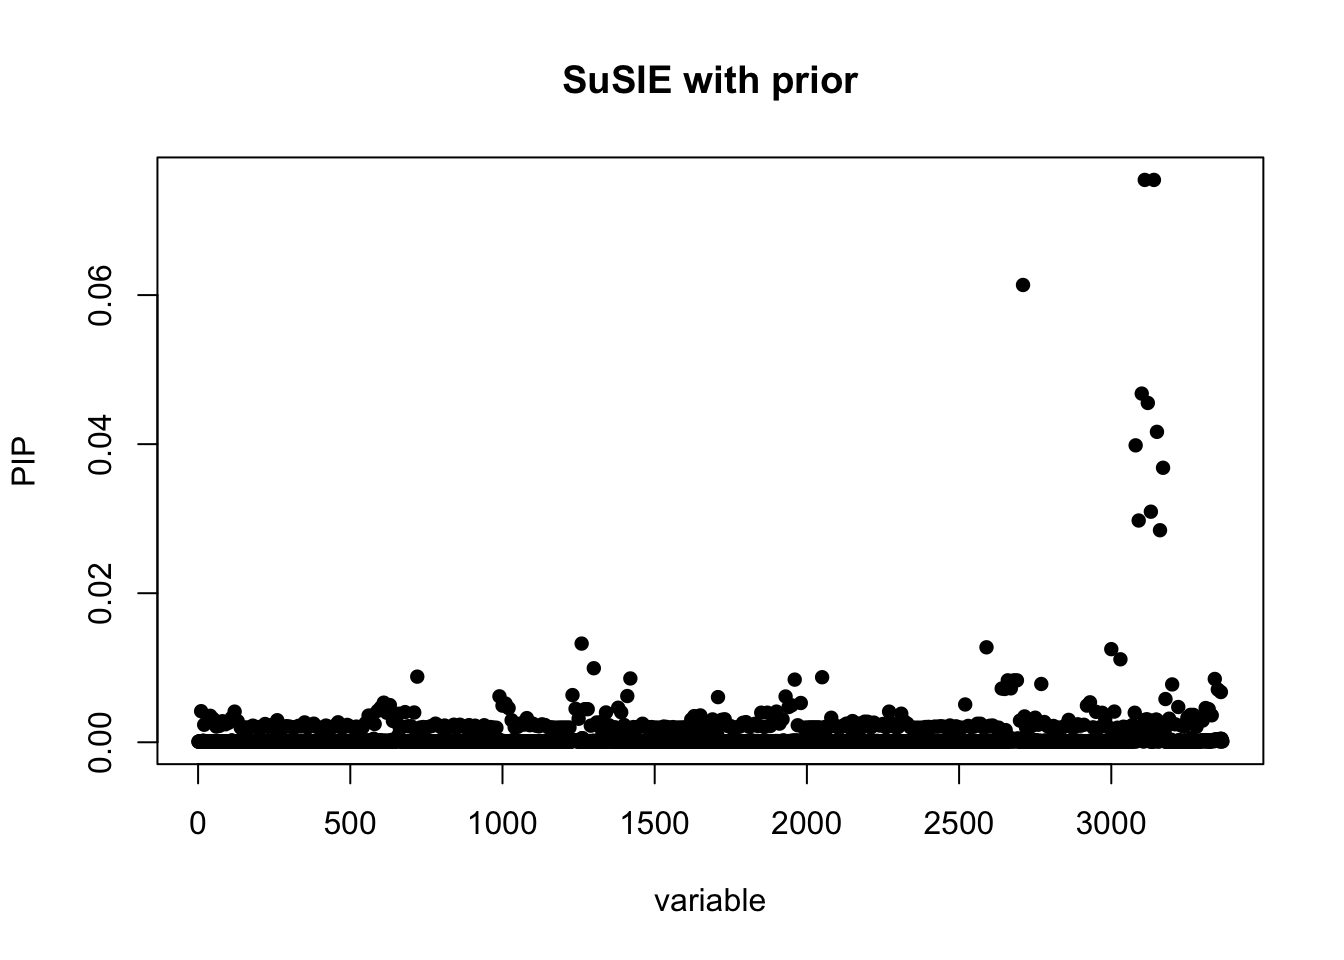
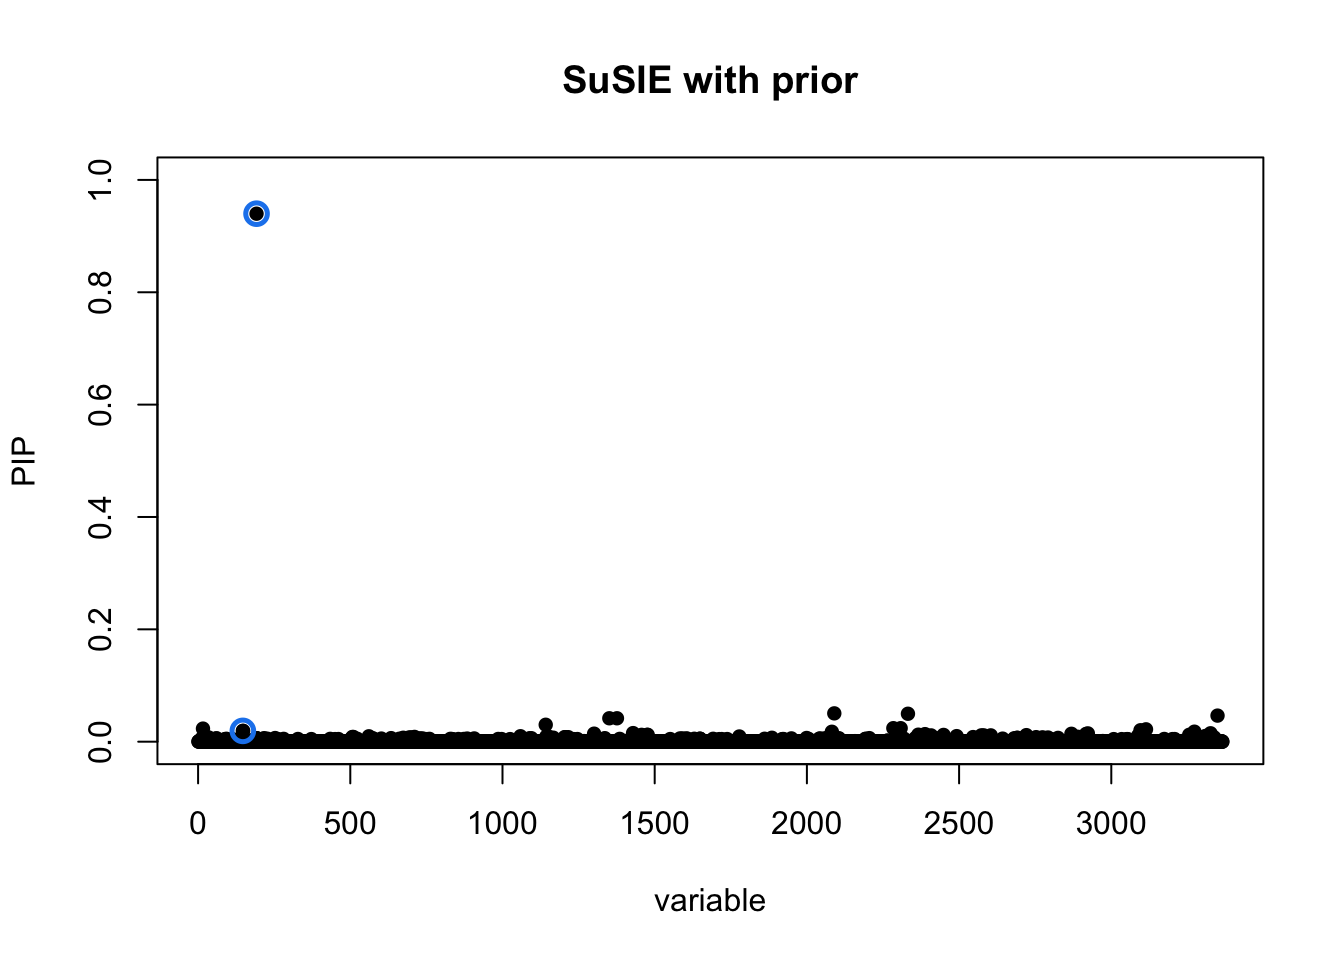
Build site.

diff --git a/docs/informative_prior.html b/docs/informative_prior.html
@@ -381,7 +381,7 @@ class="glyphicon glyphicon-ok text-success" aria-hidden="true"></span>
 <div class="tab-content">
 <div id="summary" class="tab-pane fade in active">
 <p>
-<strong>Last updated:</strong> 2025-03-07
+<strong>Last updated:</strong> 2025-03-16
 </p>
 <p>
 <strong>Checks:</strong> <span
@@ -512,15 +512,15 @@ project makes it easier to run your code on other machines.</p>
 <div class="panel panel-default">
 <div class="panel-heading">
 <p class="panel-title">
-<a data-toggle="collapse" data-parent="#workflowr-checks" href="#strongRepositoryversionstrongahrefhttpsgithubcomLifanLiangeQTLmethodstree1920d42527a05fc47aaeda052aee02a429e410batargetblank1920d42a">
+<a data-toggle="collapse" data-parent="#workflowr-checks" href="#strongRepositoryversionstrongahrefhttpsgithubcomLifanLiangeQTLmethodstree51c9bda2d9bcaa9ca4d98127b541adbfc31279d6targetblank51c9bdaa">
 <span class="glyphicon glyphicon-ok text-success"
 aria-hidden="true"></span> <strong>Repository version:</strong>
-<a href="https://github.com/LifanLiang/eQTL_methods/tree/1920d42527a05fc47aaeda052aee02a429e410ba" target="_blank">1920d42</a>
+<a href="https://github.com/LifanLiang/eQTL_methods/tree/51c9bda2d9bcaa9ca4d98127b541adbfc31279d6" target="_blank">51c9bda</a>
 </a>
 </p>
 </div>
 <div
[2 lines of base64/hex data omitted]
 class="panel-collapse collapse">
 <div class="panel-body">
 <p>
@@ -530,7 +530,7 @@ reproducibility.
 </p>
 <p>
 The results in this page were generated with repository version
-<a href="https://github.com/LifanLiang/eQTL_methods/tree/1920d42527a05fc47aaeda052aee02a429e410ba" target="_blank">1920d42</a>.
+<a href="https://github.com/LifanLiang/eQTL_methods/tree/51c9bda2d9bcaa9ca4d98127b541adbfc31279d6" target="_blank">51c9bda</a>.
 See the <em>Past versions</em> tab to see a history of the changes made
 to the R Markdown and HTML files.
 </p>
@@ -615,13 +615,47 @@ Message
 Rmd
 </td>
 <td>
+<a href="https://github.com/LifanLiang/eQTL_methods/blob/51c9bda2d9bcaa9ca4d98127b541adbfc31279d6/analysis/informative_prior.Rmd" target="_blank">51c9bda</a>
+</td>
+<td>
+Lifan Liang
+</td>
+<td>
+2025-03-16
+</td>
+<td>
+wflow_publish("analysis")
+</td>
+</tr>
+<tr>
+<td>
+html
+</td>
+<td>
+<a href="https://rawcdn.githack.com/LifanLiang/eQTL_methods/168af87ff93b78dd401968b95157f04881cca8f5/docs/informative_prior.html" target="_blank">168af87</a>
+</td>
+<td>
+Lifan Liang
+</td>
+<td>
+2025-03-06
+</td>
+<td>
+Build site.
+</td>
+</tr>
+<tr>
+<td>
+Rmd
+</td>
+<td>
 <a href="https://github.com/LifanLiang/eQTL_methods/blob/1920d42527a05fc47aaeda052aee02a429e410ba/analysis/informative_prior.Rmd" target="_blank">1920d42</a>
 </td>
 <td>
 Lifan Liang
 </td>
 <td>
-2025-03-07
+2025-03-06
 </td>
 <td>
 wflow_publish("analysis")
@@ -914,7 +948,11 @@ wflow_publish("analysis")
 (i.e. <code>chr9:2000000-3000000</code>) and extracted the corresponding
 genotype of the 100 cell lines in the neuron stimulation. All SNPs have
 minor allele frequency (MAF) over 1%. The heatmap below shows the
-genotype profiles of SNP (column).</p>
+genotype profiles of SNP (column). X were copied 9 times to be <span
+class="math inline">\(X&#39;\)</span>. So <span
+class="math inline">\(X&#39;\)</span> has 1000 individuals, like 100
+families within which there are 10 twins. Each twin receive different
+environmental exposures to generate Y.</p>
 <pre class="r"><code>library(pheatmap)
 X &lt;- t(readRDS(&quot;data/neuron_stim_genotype_chr9_2e6-3e6.rds&quot;)[,-1] )# Each row is a cell line
 pheatmap(X,cluster_cols = F)</code></pre>
@@ -967,6 +1005,7 @@ Lifan Liang
 </table>
 </div>
 </div>
+<pre class="r"><code>X1 &lt;- t(matrix(rep(t(X),10),nrow=ncol(X)))</code></pre>
 <p>The SNPs were evenly split into 5 groups (673 SNPs per group). SNPs
 in each group has a different prior for being causal. But the causal
 SNPs have the same effect size. Let <span
@@ -1004,8 +1043,11 @@ expression Y as:</p>
 Y_i = \sum_j X_{ij}\beta_j + \epsilon
 \]</span></p>
 <pre class="r"><code>#pi &lt;- rep(c(2,4,8,16,32) * 1e-4, each=ncol(X)/5)
-pi &lt;- rep(c(rep(2,9),50) * 1e-4, 400)[1:ncol(X)]
-
+#pi &lt;- rep(c(rep(2,9),50) * 1e-4, 400)[1:ncol(X)]
+pi &lt;- rep(2,ncol(X))
+pi[sample(1:length(pi),168)] &lt;- 100
+pi &lt;- pi * 1e-4
+  
 sim_group_pi &lt;- function(X, pi=pi, sigma=0.25, sigma.e=1.0) {
   ### Impose the constraint that there is at least one causal SNP
   N &lt;- 0
@@ -1027,7 +1069,7 @@ allele frequency of causal SNPs. Mostly, the total PVE was less than
 pve &lt;- numeric(100L)
 #rand.cor &lt;- numeric(100L)
 for(i in 1:length(pve)) {
-  sim.res &lt;- sim_group_pi(X,pi)
+  sim.res &lt;- sim_group_pi(X1,pi)
   pve[i] &lt;- 1 - sum(sim.res$eps**2) / sum((sim.res$y - mean(sim.res$y))**2)
   #rand.cor[i] &lt;- max(abs(cor(sim.res$eps, sim.res$dat[,-1][,gamma!=0])))
 }
@@ -1055,6 +1097,17 @@ Date
 </tr>
 </thead>
 <tbody>
+<tr>
+<td>
+<a href="https://github.com/LifanLiang/eQTL_methods/blob/168af87ff93b78dd401968b95157f04881cca8f5/docs/figure/informative_prior.Rmd/unnamed-chunk-3-1.png" target="_blank">168af87</a>
+</td>
+<td>
+Lifan Liang
+</td>
+<td>
+2025-03-06
+</td>
+</tr>
 <tr>
 <td>
 <a href="https://github.com/LifanLiang/eQTL_methods/blob/18fad7e2e4c882c757ff3ce19fd8c747e638bbb3/docs/figure/informative_prior.Rmd/unnamed-chunk-3-1.png" target="_blank">18fad7e</a>
@@ -1125,8 +1178,8 @@ Lasso.</p>
 <h4>Lasso</h4>
 <p>For lasso, setting <span class="math inline">\(\lambda=0.3\)</span>
 seems to be optimal.</p>
-<pre class="r"><code>set.seed(22)
-sim.res &lt;- sim_group_pi(X,pi)
+<pre class="r"><code>set.seed(1234)
+sim.res &lt;- sim_group_pi(X1,pi)
 plot(abs(sim.res$beta),pch=16,ylab=&quot;absolute effect size&quot;,xlab=&quot;SNP index&quot;, main=&quot;Oracle&quot;)</code></pre>
 <p><img src="figure/informative_prior.Rmd/unnamed-chunk-5-1.png" width="672" style="display: block; margin: auto;" /></p>
 <p>
@@ -1151,6 +1204,17 @@ Date
 </tr>
 </thead>
 <tbody>
+<tr>
+<td>
+<a href="https://github.com/LifanLiang/eQTL_methods/blob/168af87ff93b78dd401968b95157f04881cca8f5/docs/figure/informative_prior.Rmd/unnamed-chunk-5-1.png" target="_blank">168af87</a>
+</td>
+<td>
+Lifan Liang
+</td>
+<td>
+2025-03-06
+</td>
+</tr>
 <tr>
 <td>
 <a href="https://github.com/LifanLiang/eQTL_methods/blob/aaf0ed0dbbd8bd746aee55d57ec9d8462754cb0a/docs/figure/informative_prior.Rmd/unnamed-chunk-5-1.png" target="_blank">aaf0ed0</a>
@@ -1191,7 +1255,7 @@ Lifan Liang
 <pre class="r"><code>library(glmnet)</code></pre>
 <pre><code>Loading required package: Matrix</code></pre>
 <pre><code>Loaded glmnet 4.1-7</code></pre>
-<pre class="r"><code>lasso.fit &lt;- glmnet(sim.res$X, sim.res$y,lambda = 0.3)
+<pre class="r"><code>lasso.fit &lt;- glmnet(sim.res$X, sim.res$y, lambda = 0.2)
 plot(abs(lasso.fit$beta), ylab=&quot;absolute effect size&quot;, xlab=&quot;SNP index&quot;, main=&quot;Lasso&quot;)</code></pre>
 <p><img src="figure/informative_prior.Rmd/unnamed-chunk-6-1.png" width="672" style="display: block; margin: auto;" /></p>
 <p>
@@ -1216,6 +1280,17 @@ Date
 </tr>
 </thead>
 <tbody>
+<tr>
+<td>
+<a href="https://github.com/LifanLiang/eQTL_methods/blob/168af87ff93b78dd401968b95157f04881cca8f5/docs/figure/informative_prior.Rmd/unnamed-chunk-6-1.png" target="_blank">168af87</a>
+</td>
+<td>
+Lifan Liang
+</td>
+<td>
+2025-03-06
+</td>
+</tr>
 <tr>
 <td>
 <a href="https://github.com/LifanLiang/eQTL_methods/blob/18fad7e2e4c882c757ff3ce19fd8c747e638bbb3/docs/figure/informative_prior.Rmd/unnamed-chunk-6-1.png" target="_blank">18fad7e</a>
@@ -1302,6 +1377,17 @@ Date
 <tbody>
 <tr>
 <td>
+<a href="https://github.com/LifanLiang/eQTL_methods/blob/168af87ff93b78dd401968b95157f04881cca8f5/docs/figure/informative_prior.Rmd/unnamed-chunk-7-1.png" target="_blank">168af87</a>
+</td>
+<td>
+Lifan Liang
+</td>
+<td>
+2025-03-06
+</td>
+</tr>
+<tr>
+<td>
 <a href="https://github.com/LifanLiang/eQTL_methods/blob/18fad7e2e4c882c757ff3ce19fd8c747e638bbb3/docs/figure/informative_prior.Rmd/unnamed-chunk-7-1.png" target="_blank">18fad7e</a>
 </td>
 <td>
@@ -1357,7 +1443,7 @@ to strong LD in the loci, PIP for individual SNP was low.</p>
 susie.fit &lt;- susie(sim.res$X, sim.res$y, prior_weights = sim.res$pi,
                    L=sum(sim.res$gamma), coverage = 0.95, standardize = F,
                    intercept = T, compute_univariate_zscore = T)
-susie_plot(susie.fit, y=&#39;PIP&#39;, main=&quot;SuSIE with prior&quot;)</code></pre>
+susie_plot(susie.fit, y=&#39;PIP&#39;, main=&quot;SuSIE with prior&quot;, ylim=c(0,1))</code></pre>
 <p><img src="figure/informative_prior.Rmd/unnamed-chunk-8-1.png" width="672" style="display: block; margin: auto;" /></p>
 <p>
 <button type="button" class="btn btn-default btn-xs btn-workflowr btn-workflowr-fig" data-toggle="collapse" data-target="#fig-unnamed-chunk-8-1">
@@ -1381,6 +1467,17 @@ Date
 </tr>
 </thead>
 <tbody>
+<tr>
+<td>
+<a href="https://github.com/LifanLiang/eQTL_methods/blob/168af87ff93b78dd401968b95157f04881cca8f5/docs/figure/informative_prior.Rmd/unnamed-chunk-8-1.png" target="_blank">168af87</a>
+</td>
+<td>
+Lifan Liang
+</td>
+<td>
+2025-03-06
+</td>
+</tr>
 <tr>
 <td>
 <a href="https://github.com/LifanLiang/eQTL_methods/blob/18fad7e2e4c882c757ff3ce19fd8c747e638bbb3/docs/figure/informative_prior.Rmd/unnamed-chunk-8-1.png" target="_blank">18fad7e</a>
@@ -1433,7 +1530,7 @@ Lifan Liang
 PIP in the same credible set.</p>
 <pre class="r"><code>susie.fit &lt;- susie(sim.res$X, sim.res$y,L=sum(sim.res$gamma), standardize = F,
                    intercept=T, coverage=0.95)
-susie_plot(susie.fit, y=&#39;PIP&#39;,main=&quot;SuSIE without prior&quot;)</code></pre>
+susie_plot(susie.fit, y=&#39;PIP&#39;,main=&quot;SuSIE without prior&quot;, ylim=c(0,1))</code></pre>
 <p><img src="figure/informative_prior.Rmd/unnamed-chunk-9-1.png" width="672" style="display: block; margin: auto;" /></p>
 <p>
 <button type="button" class="btn btn-default btn-xs btn-workflowr btn-workflowr-fig" data-toggle="collapse" data-target="#fig-unnamed-chunk-9-1">
@@ -1457,6 +1554,17 @@ Date
 </tr>
 </thead>
 <tbody>
+<tr>
+<td>
+<a href="https://github.com/LifanLiang/eQTL_methods/blob/168af87ff93b78dd401968b95157f04881cca8f5/docs/figure/informative_prior.Rmd/unnamed-chunk-9-1.png" target="_blank">168af87</a>
+</td>
+<td>
+Lifan Liang
+</td>
+<td>
+2025-03-06
+</td>
+</tr>
 <tr>
 <td>
 <a href="https://github.com/LifanLiang/eQTL_methods/blob/93100b381308a1406e3dad68d5ca60d8ede2e5be/docs/figure/informative_prior.Rmd/unnamed-chunk-9-1.png" target="_blank">93100b3</a>
@@ -1511,9 +1619,9 @@ Lifan Liang
 <h3>Cross validation</h3>
 <p>We used 5-fold cross validation over the 100 individuals. Evaluation
 metric in the test set is <span class="math inline">\(R^2\)</span>. The
-two SuSIE models is one with priors and one without. Note that
-performance varies a lot depending on the training-testing split. In
-this particular case, the PVE on full dataset is 3.4%. Two different
+two SuSIE models are one with priors and one without, respectively. Note
+that performance varies a lot depending on the training-testing split.
+In this particular case, the PVE on full dataset is 3.4%. Two different
 definitions of <span class="math inline">\(R^2\)</span> are computed.
 The first one is the squared correlation between <span
 class="math inline">\(y\)</span> in the test set and <span
@@ -1527,7 +1635,7 @@ mean of <span class="math inline">\(y\)</span> in the training set.</p>
 <pre class="r"><code>calc.mse &lt;- function(y.test, y.hat) {
   mean((y.test - y.hat)^2)
 }</code></pre>
-<pre class="r"><code>set.seed(22)
+<pre class="r"><code>set.seed(1234)
 sim.res &lt;- sim_group_pi(X, pi)
 inds &lt;- sample(rep(1:5,times=20))
 #sim.res$X &lt;- apply(sim.res$X,2,as.numeric)
@@ -1599,6 +1707,17 @@ Date
 <tbody>
 <tr>
 <td>
+<a href="https://github.com/LifanLiang/eQTL_methods/blob/168af87ff93b78dd401968b95157f04881cca8f5/docs/figure/informative_prior.Rmd/unnamed-chunk-12-1.png" target="_blank">168af87</a>
+</td>
+<td>
+Lifan Liang
+</td>
+<td>
+2025-03-06
+</td>
+</tr>
+<tr>
+<td>
 <a href="https://github.com/LifanLiang/eQTL_methods/blob/18fad7e2e4c882c757ff3ce19fd8c747e638bbb3/docs/figure/informative_prior.Rmd/unnamed-chunk-12-1.png" target="_blank">18fad7e</a>
 </td>
 <td>
@@ -1638,6 +1757,17 @@ Date
 <tbody>
 <tr>
 <td>
+<a href="https://github.com/LifanLiang/eQTL_methods/blob/168af87ff93b78dd401968b95157f04881cca8f5/docs/figure/informative_prior.Rmd/unnamed-chunk-13-1.png" target="_blank">168af87</a>
+</td>
+<td>
+Lifan Liang
+</td>
+<td>
+2025-03-06
+</td>
+</tr>
+<tr>
+<td>
 <a href="https://github.com/LifanLiang/eQTL_methods/blob/18fad7e2e4c882c757ff3ce19fd8c747e638bbb3/docs/figure/informative_prior.Rmd/unnamed-chunk-13-1.png" target="_blank">18fad7e</a>
 </td>
 <td>
@@ -1653,6 +1783,43 @@ Lifan Liang
 </div>
 <pre class="r"><code>boxplot(dat.mse, ylab=&quot;Mean squared error&quot;, col=2:5)</code></pre>
 <p><img src="figure/informative_prior.Rmd/unnamed-chunk-14-1.png" width="672" style="display: block; margin: auto;" /></p>
+<p>
+<button type="button" class="btn btn-default btn-xs btn-workflowr btn-workflowr-fig" data-toggle="collapse" data-target="#fig-unnamed-chunk-14-1">
+Past versions of unnamed-chunk-14-1.png
+</button>
+</p>
+<div id="fig-unnamed-chunk-14-1" class="collapse">
+<div class="table-responsive">
+<table class="table table-condensed table-hover">
+<thead>
+<tr>
+<th>
+Version
+</th>
+<th>
+Author
+</th>
+<th>
+Date
+</th>
+</tr>
+</thead>
+<tbody>
+<tr>
+<td>
+<a href="https://github.com/LifanLiang/eQTL_methods/blob/168af87ff93b78dd401968b95157f04881cca8f5/docs/figure/informative_prior.Rmd/unnamed-chunk-14-1.png" target="_blank">168af87</a>
+</td>
+<td>
+Lifan Liang
+</td>
+<td>
+2025-03-06
+</td>
+</tr>
+</tbody>
+</table>
+</div>
+</div>
 <br>
 <p>
 <button type="button" class="btn btn-default btn-workflowr btn-workflowr-sessioninfo" data-toggle="collapse" data-target="#workflowr-sessioninfo" style="display: block;">
